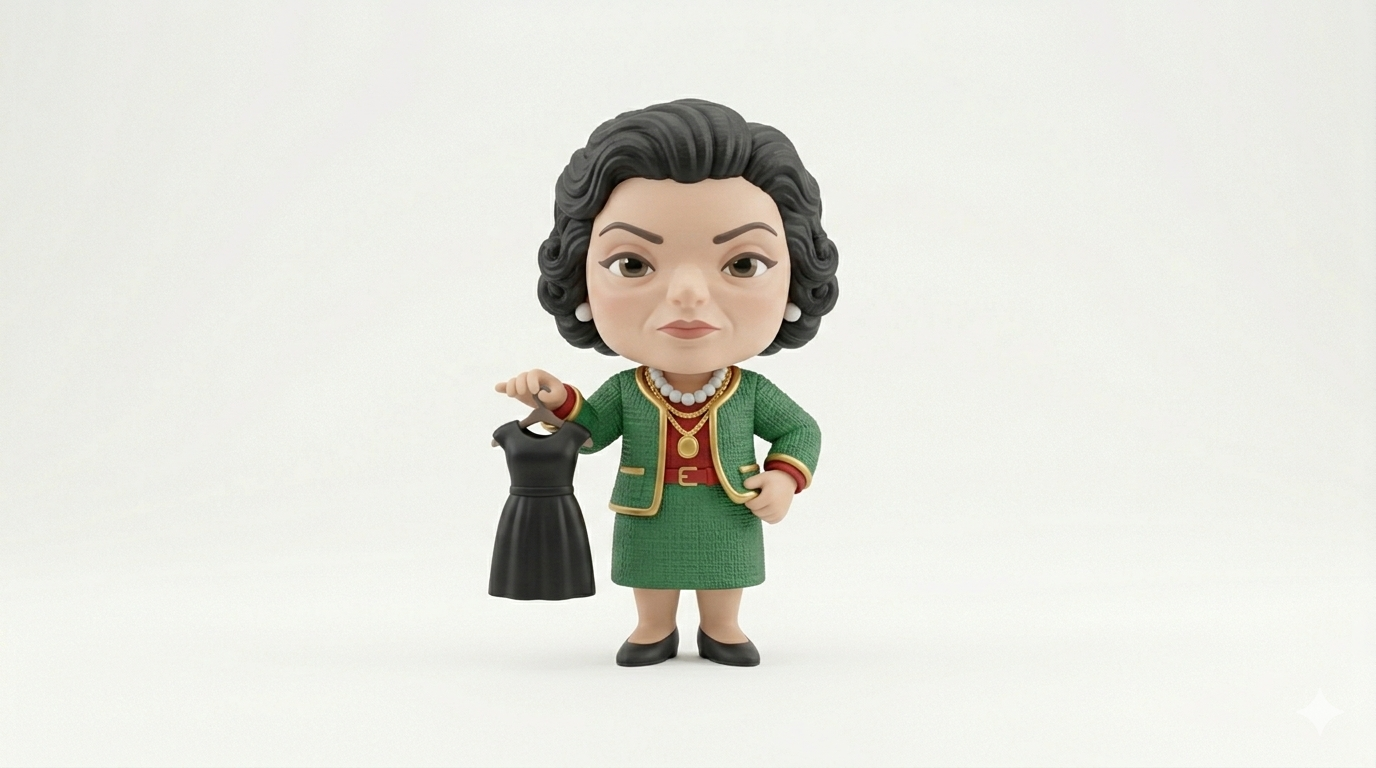
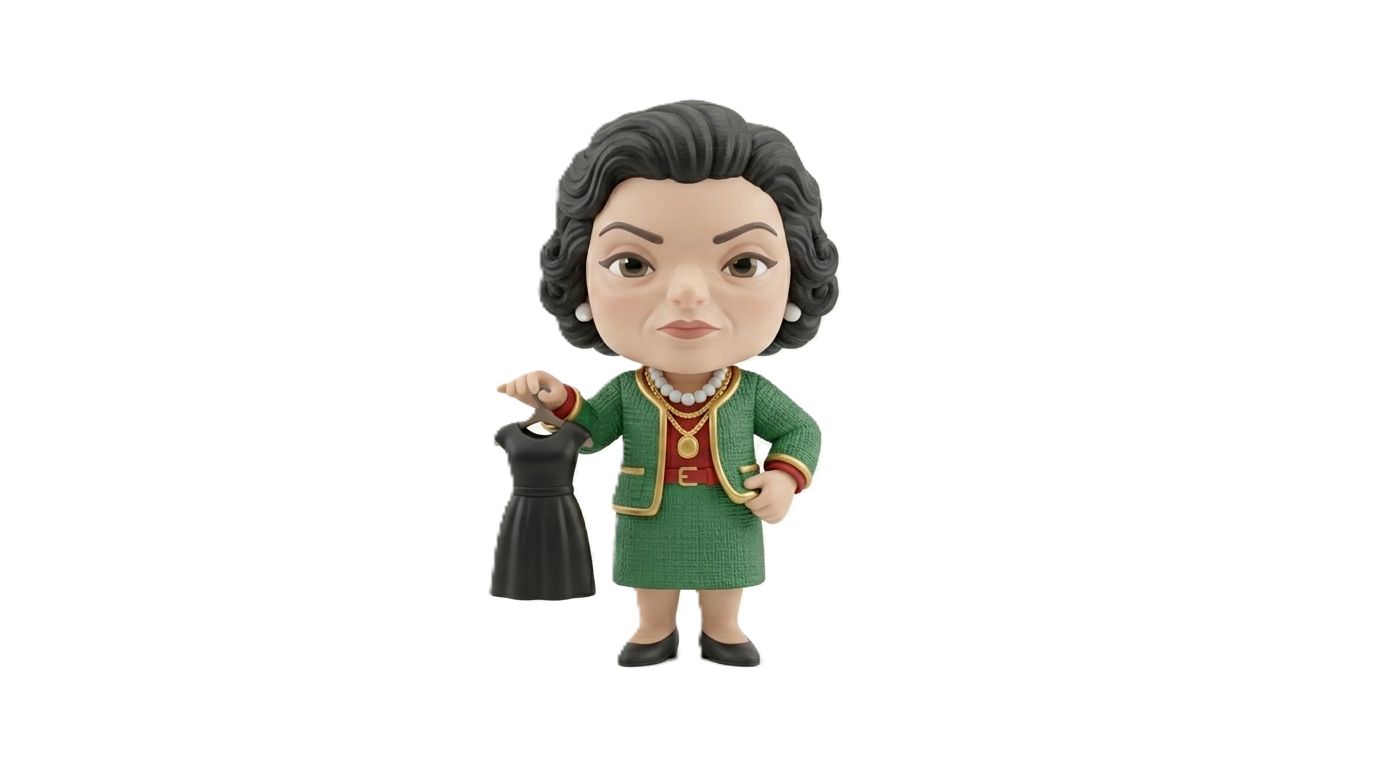
feat: update mentor images (transparent bg), display as-is without crop
Made-with: Cursor

diff --git a/app/mentor/chat/page.tsx b/app/mentor/chat/page.tsx
@@ -590,19 +590,15 @@ function MentorChatInner() {
               animate={{ y: [0, -10, 0] }}
               transition={{ duration: 3, repeat: Infinity, ease: "easeInOut" }}
             >
-              <div className="relative h-60 w-44 overflow-hidden rounded-3xl sm:h-72 sm:w-52">
-                <Image
-                  src={getMentorImage(matchedRow?.id)}
-                  alt="Mentor figure"
-                  fill
-                  priority
-                  sizes="(max-width: 640px) 176px, 208px"
-                  style={{
-                    objectFit: "cover",
-                    objectPosition: "center 5%",
-                  }}
-                />
-              </div>
+              <Image
+                src={getMentorImage(matchedRow?.id)}
+                alt="Mentor figure"
+                width={280}
+                height={320}
+                priority
+                className="h-56 w-auto sm:h-64"
+                style={{ objectFit: "contain" }}
+              />
             </motion.div>
           </div>
         </div>

diff --git a/app/mentor/page.tsx b/app/mentor/page.tsx
@@ -174,19 +174,15 @@ function MentorIntroInner() {
               animate={{ y: [0, -8, 0] }}
               transition={{ duration: 3.2, repeat: Infinity, ease: "easeInOut" }}
             >
-              <div className="relative h-72 w-52 overflow-hidden rounded-3xl sm:h-80 sm:w-60">
-                <Image
-                  src={getMentorImage(matchedRow?.id)}
-                  alt="Mentor figure"
-                  fill
-                  priority
-                  sizes="(max-width: 640px) 208px, 240px"
-                  style={{
-                    objectFit: "cover",
-                    objectPosition: "center 5%",
-                  }}
-                />
-              </div>
+              <Image
+                src={getMentorImage(matchedRow?.id)}
+                alt="Mentor figure"
+                width={280}
+                height={320}
+                priority
+                className="h-64 w-auto sm:h-80"
+                style={{ objectFit: "contain" }}
+              />
             </motion.div>
           </div>
 

diff --git a/app/share/[id]/page.tsx b/app/share/[id]/page.tsx
@@ -103,18 +103,14 @@ export default function SharePage({
               </p>
 
               <div className="mt-4 flex justify-center">
-                <div className="relative h-44 w-36 overflow-hidden rounded-2xl">
-                  <Image
-                    src={getMentorImage(data.mentorId)}
-                    alt="Mentor"
-                    fill
-                    sizes="144px"
-                    style={{
-                      objectFit: "cover",
-                      objectPosition: "center 5%",
-                    }}
-                  />
-                </div>
+                <Image
+                  src={getMentorImage(data.mentorId)}
+                  alt="Mentor"
+                  width={160}
+                  height={180}
+                  className="h-36 w-auto"
+                  style={{ objectFit: "contain" }}
+                />
               </div>
 
               <p className="mt-3 text-sm font-semibold text-white/80">
